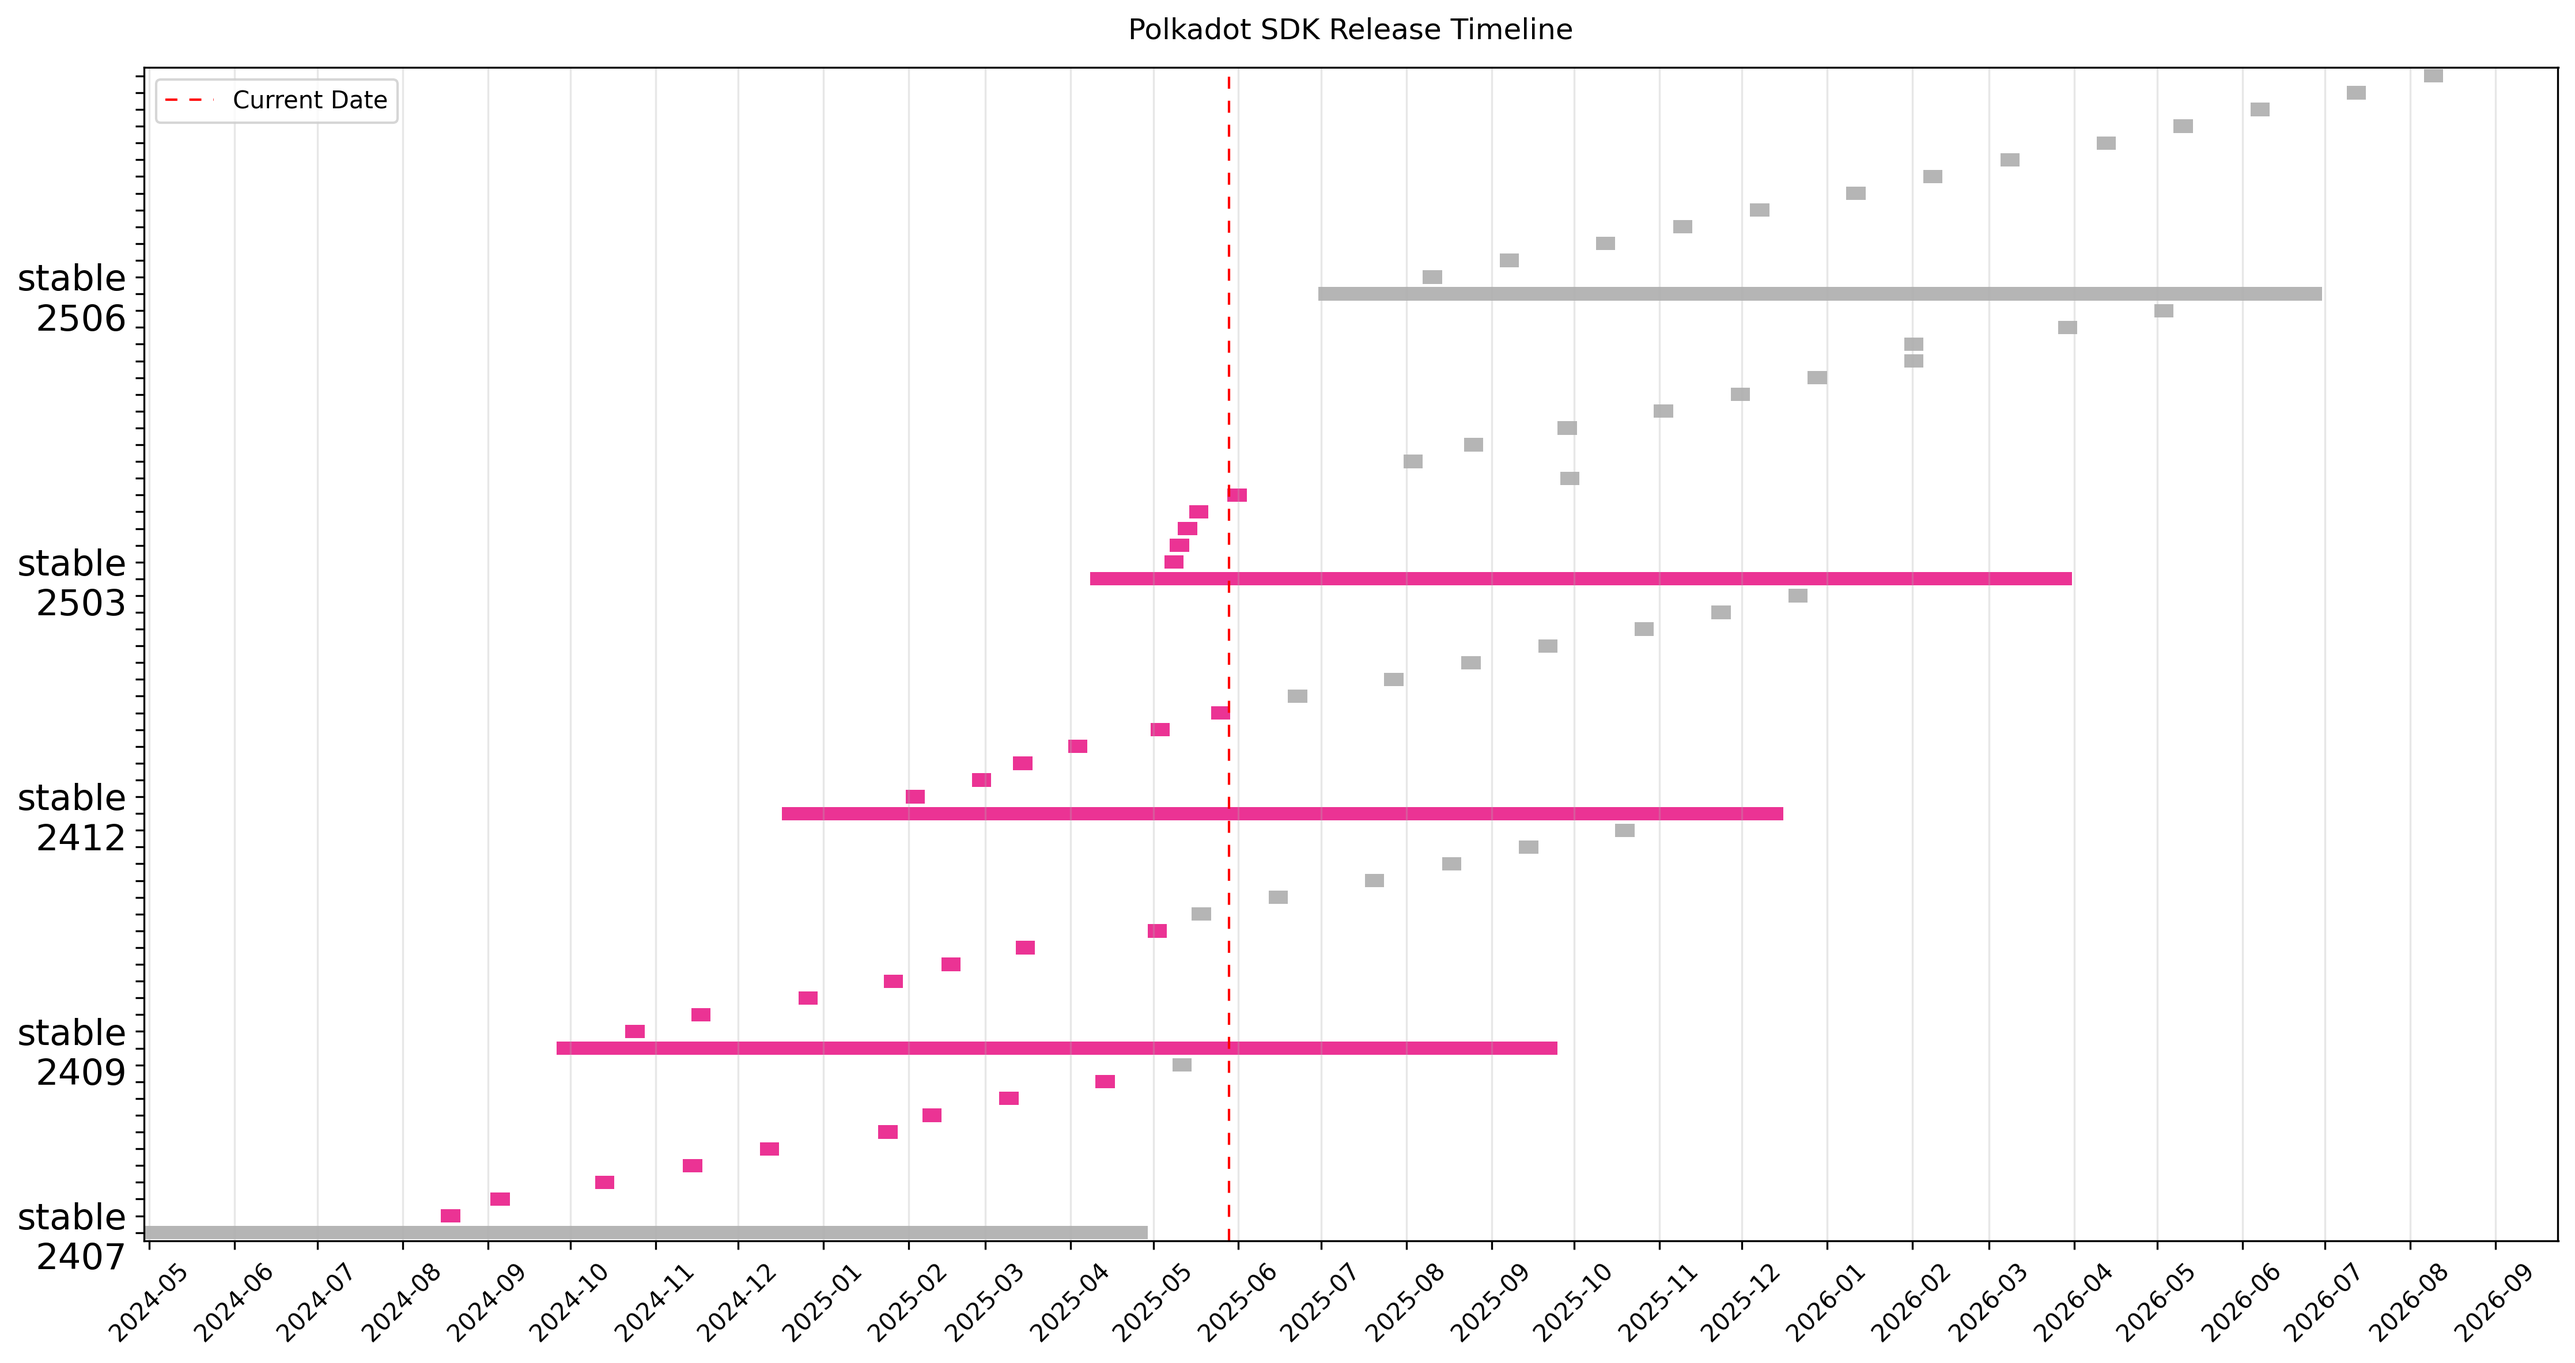
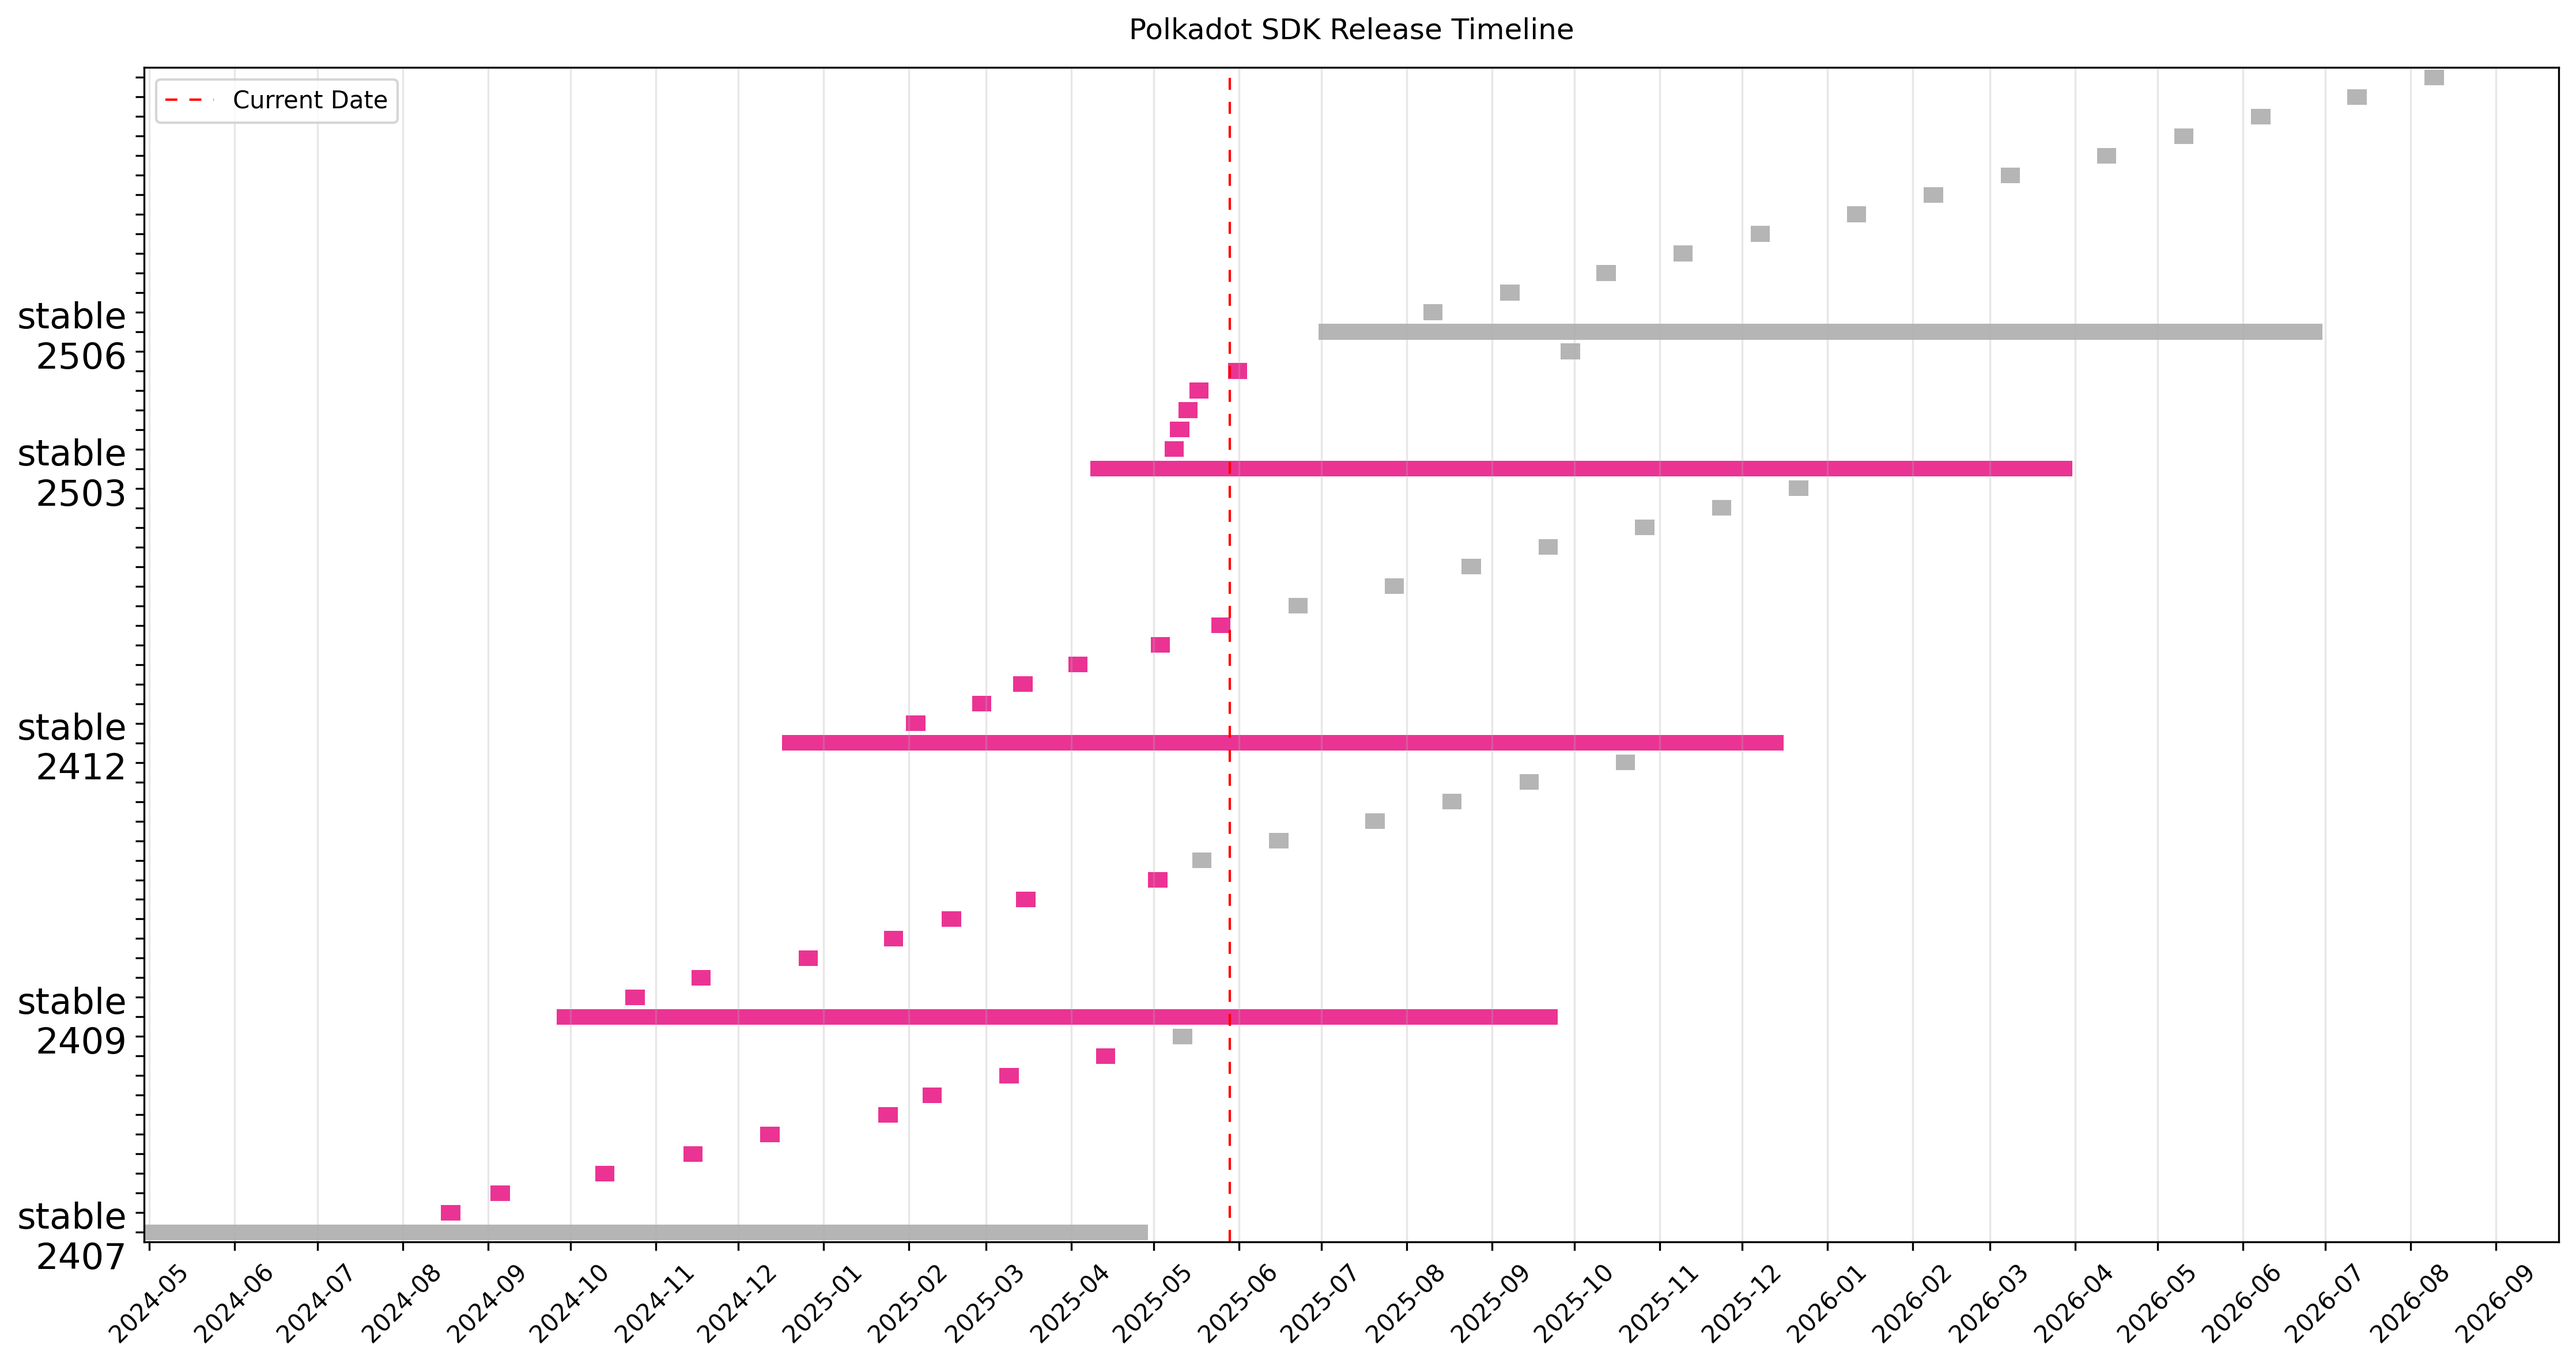
Delete current patches for 2503

diff --git a/CALENDAR.md b/CALENDAR.md
@@ -54,16 +54,6 @@ Full untruncated version index.
 | &nbsp;&nbsp;stable2503-4 | 2025-05-14 | 2025-05-14 |  | [Released](https://github.com/paritytech/polkadot-sdk/releases/tag/polkadot-stable2503-4) |
 | &nbsp;&nbsp;stable2503-5 | 2025-05-28 | 2025-05-28 |  | [Released](https://github.com/paritytech/polkadot-sdk/releases/tag/polkadot-stable2503-5) |
 | &nbsp;&nbsp;stable2503-6 | 2025-06-23 | 2025-09-26 |  | Planned |
-| &nbsp;&nbsp;stable2503-7 | 2025-07-28 | 2025-07-31 |  | Planned |
-| &nbsp;&nbsp;stable2503-8 | 2025-08-25 | 2025-08-22 |  | Planned |
-| &nbsp;&nbsp;stable2503-9 | 2025-09-22 | 2025-09-25 |  | Planned |
-| &nbsp;&nbsp;stable2503-10 | 2025-10-27 | 2025-10-30 |  | Planned |
-| &nbsp;&nbsp;stable2503-11 | 2025-11-24 | 2025-11-27 |  | Planned |
-| &nbsp;&nbsp;stable2503-12 | 2025-12-22 | 2025-12-25 |  | Planned |
-| &nbsp;&nbsp;stable2503-13 | 2026-01-26 | 2026-01-29 |  | Planned |
-| &nbsp;&nbsp;stable2503-14 | 2026-02-23 | 2026-01-29 |  | Planned |
-| &nbsp;&nbsp;stable2503-15 | 2026-03-23 | 2026-03-26 |  | Planned |
-| &nbsp;&nbsp;stable2503-16 | 2026-04-27 | 2026-04-30 |  | Planned |
 | **stable2506** | 2025-05-15 | 2025-06-30 | 2026-06-30 | Planned |
 | &nbsp;&nbsp;stable2506-1 | 2025-08-04 | 2025-08-07 |  | Planned |
 | &nbsp;&nbsp;stable2506-2 | 2025-09-01 | 2025-09-04 |  | Planned |

diff --git a/README.md b/README.md
@@ -41,8 +41,7 @@ Planned and historic release dates:
 | &nbsp;&nbsp;stable2503-4 | 2025-05-14 | 2025-05-14 |  | [Released](https://github.com/paritytech/polkadot-sdk/releases/tag/polkadot-stable2503-4) |
 | &nbsp;&nbsp;stable2503-5 | 2025-05-28 | 2025-05-28 |  | [Released](https://github.com/paritytech/polkadot-sdk/releases/tag/polkadot-stable2503-5) |
 | &nbsp;&nbsp;stable2503-6 | 2025-06-23 | 2025-09-26 |  | Planned |
-| &nbsp;&nbsp;stable2503-7 | 2025-07-28 | 2025-07-31 |  | Planned |
-| &nbsp;&nbsp;[3 more past, 9 more planned](CALENDAR.md) |  |  | | |
+| &nbsp;&nbsp;[3 more past](CALENDAR.md) |  |  | | |
 | **stable2506** | 2025-05-15 | 2025-06-30 | 2026-06-30 | Planned |
 | &nbsp;&nbsp;stable2506-1 | 2025-08-04 | 2025-08-07 |  | Planned |
 | &nbsp;&nbsp;stable2506-2 | 2025-09-01 | 2025-09-04 |  | Planned |
